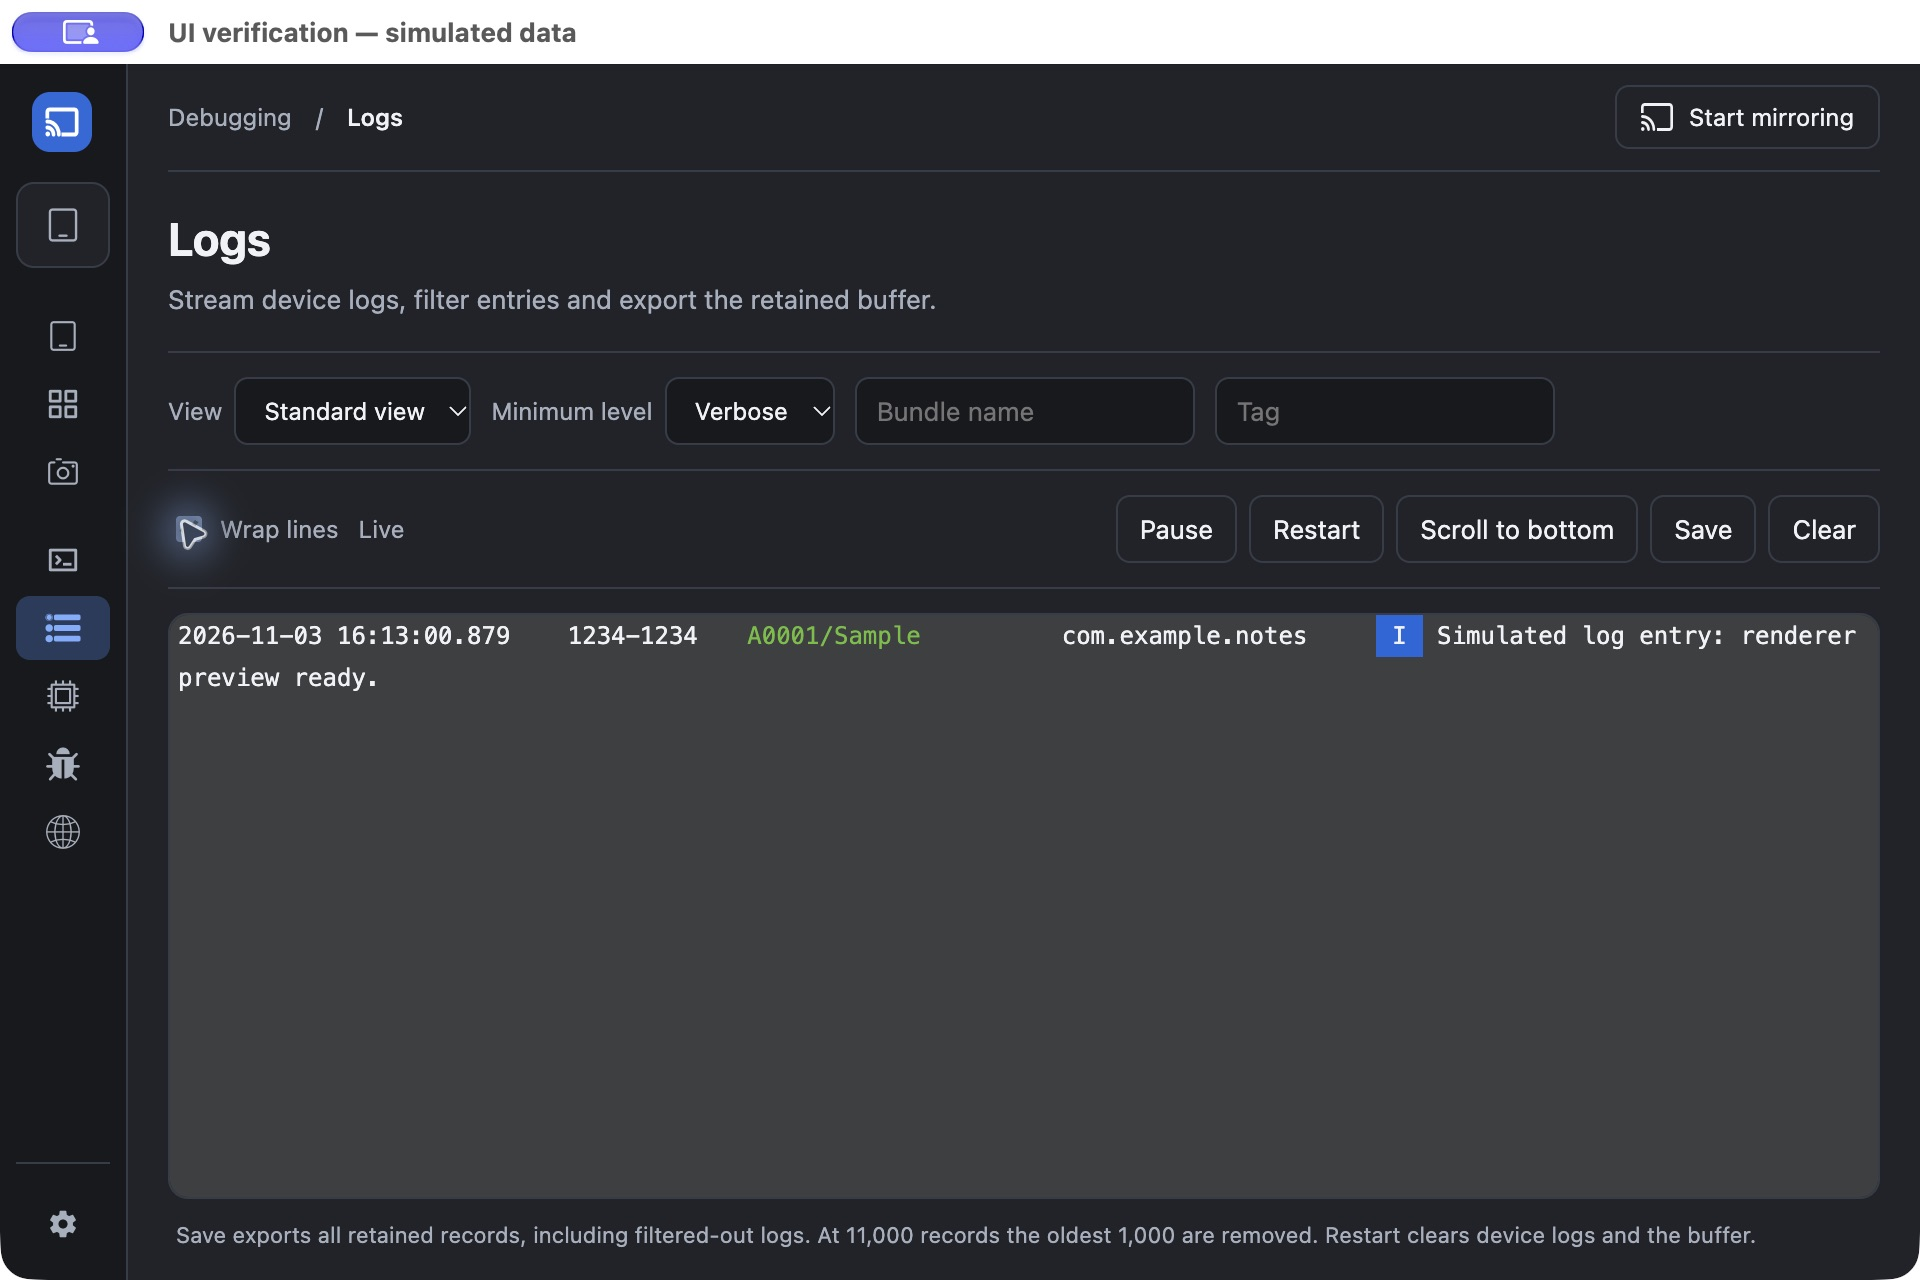
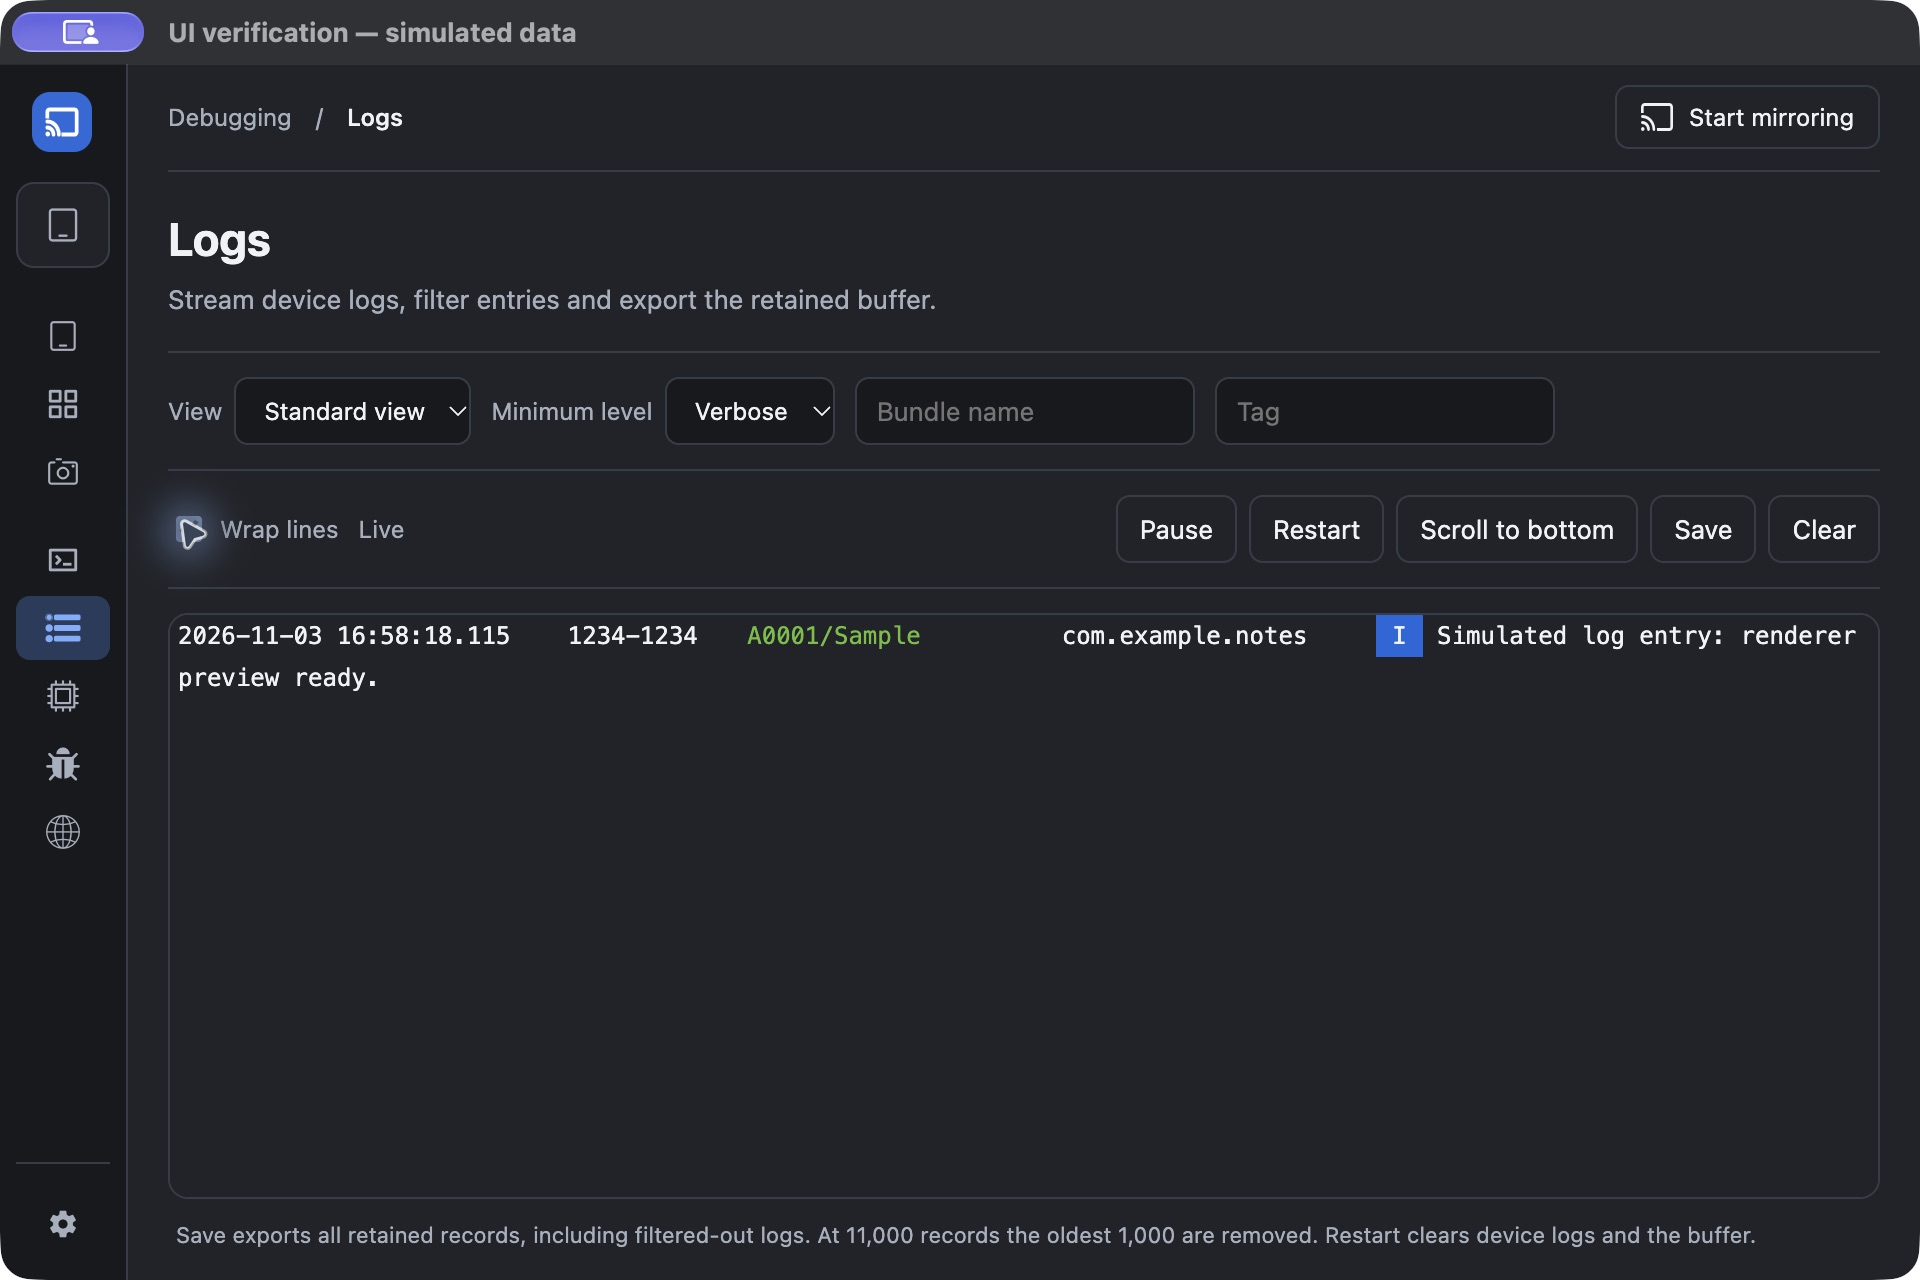
docs(ui): record tool-window and final dark-theme verification

diff --git a/.agents/skills/scrcpy-harmony-project/references/architecture.md b/.agents/skills/scrcpy-harmony-project/references/architecture.md
@@ -194,7 +194,9 @@ Canvas pointer 事件
 - 使用 React 函数组件、`mobx-react-lite` 的 `observer`、Luna React 封装和局部 `.module.scss`；CSS Modules 配置为 `camelCaseOnly`。
 - `src/common/util.ts` 注册独立 `en-US` / `zh-CN` 业务词典，与 `src/share/common/langs` 合并；`t()` 在缺词时兜底英文，未知 key 原样显示。主进程启动解析已保存/系统语言；renderer 在页面懒加载前同步 i18n、HTML lang 和 LunaModal。设置页语言保存后由用户重启生效，包含菜单和各窗口。开发步骤与检查器边界见[国际化开发流程](internationalization.md)。
 - `src/main/lib/SettingsStore.ts` 为低频 settings.json 保留 Store 的 get/set/change 接口，使用同步临时文件替换，在设置 IPC 返回前完成落盘，保证立即重启可读取。主窗口/投屏状态仍用 FileStore 防抖写盘。持久化回归在 `test/settings-persistence.test.cjs`。
-- 1.0.5 主窗口新语义 token 暂集中在 `workspace/Workspace.module.scss`，由 workspace 根的 data-theme 选择；不向独立投屏/升级窗口或全局 Luna 选择器扩散。旧页逐阶段接入，旧 toolbar 文件尚保留。
+- 1.0.5 主窗口语义 token 集中在 `workspace/Workspace.module.scss`，由 workspace 根的 data-theme 选择；主窗口拥有的反馈由 `useMainFeedback` 加显式作用域。关于、应用日志和 Electron 进程管理器使用 `share/renderer/tool-window/` 局部 token；不向独立投屏/升级窗口或共享全局主题扩散。旧主 Toolbar/Tabs/Target/SettingsModal 已由工作台、DeviceSwitcher 与独立设置页替代。
+- 本地 Luna DataGrid 的可选 `rowHeight` 同步 CSS 与虚拟滚动位置；默认 20px 保持兼容，应用列表显式用 32px，调试列表和独立进程工具用 28px。不能只改行 CSS 高度。
+- 独立进程工具的 store 由窗口组件显式启动/停止轮询，图表忽略卸载后的采样；应用日志卸载时取消 addLog 订阅和 resize 监听，忽略迟到的初始日志。
 - 共享主题源是 `src/common/theme.json`，`npm run gen:theme` 生成 `src/renderer/theme.scss` 与 `src/common/theme.ts`。
 - 图标配置是 `src/renderer/icon.json`，图标源在本仓 `src/renderer/icon`，`npm run gen:icon` 生成 `src/renderer/icon.css`。
 - Prettier 配置为无分号、单引号、80 列；避免为局部任务运行全仓库重写格式。

diff --git a/docs/maintenance/v1.0.5-ui-completion.md b/docs/maintenance/v1.0.5-ui-completion.md
@@ -16,6 +16,8 @@ UI-4 实现 `9279c61` 已通过88项定向测试、lint/i18n与renderer构建，
 
 UI-5 实现 `a5e6cc9` 已通过50项定向及完整应用868/868，Licia两模式各606 passing/4既有pending；lint/i18n、renderer构建通过，独立审查规格与质量均PASS。原生验收发现并修复两个集成错误：Luna分栏的空子节点崩溃、严格模式对xmldom只读children赋值报错；均补真实边界回归。修复后中文浅色1440×800三栏联动、英文深色960×640属性抽屉/Escape焦点及最终解码画布尺寸通过。WebView键盘选择、动作启用、无匹配/清空搜索通过。均使用模拟设备。
 
+UI-6 已完成实现并进入收尾检查，独立审查尚待进行。新增可选行高保持默认20px，应用列表32px、调试及独立进程列表28px；主窗口反馈与三个独立工具窗口使用局部作用域。已验证英文深色960×640应用表格及键盘详情焦点、中文浅色关于360×240、英文深色进程工具640×480默认取消与Escape回焦点、应用日志英文深色960×640和中文浅色640×480。原生运行发现终端字体变量遗漏造成空白，补生产Term挂载失败回归后修复并重新确认；错误状态和模拟重试亦通过。
+
 ## 证据区分
 
 实际 Electron fixture 加载本次构建的 renderer，原生窗口标题明确标注“simulated data”。它验证布局、键盘和界面状态；设备与持久化边界被替换，不证明真实设备安装、卸载、端口写入、输入或截图捕获成功。模拟截图位于 [design/1.0.5-evidence](../design/1.0.5-evidence/)。

diff --git a/docs/user-guide-1.0.5.md b/docs/user-guide-1.0.5.md
@@ -39,4 +39,10 @@
 
 网页页发现前台应用中已启用调试的 WebView，支持按标题、URL、类型搜索，选中后调试或打开默认浏览器。无调试目标、无搜索匹配和读取失败分开显示；切页停止轮询，返回继续。是否能发现目标仍取决于设备应用是否启用调试。
 
-独立工具说明将在 UI-6 完成后补齐，最终验证状态以实施记录为准。
+## 独立工具窗口
+
+原生菜单中的“关于”显示产品与候选版本；应用日志显示桌面应用自身的运行日志，区别于设备“日志”页。应用日志提供复制、全选、清空，保留右键菜单；复制只读取当前选中文本。
+
+Electron 进程管理器显示桌面应用各进程的 CPU、内存与 PID，支持搜索、键盘选择和停止确认；它区别于主窗口中显示设备进程的“进程”页。图表与列表随窗口挂载启动采集，关闭后停止监听和轮询。
+
+独立工具与主窗口使用一致的深浅色层次。投屏和升级窗口沿用既有设计。最终验证范围与未完成的发行验收项以[实施记录](maintenance/v1.0.5-ui-completion.md)为准。

diff --git a/CHANGELOG.md b/CHANGELOG.md
@@ -5,6 +5,7 @@
 * 主窗口采用轻量桌面工作台：分组导航、设备概览、应用详情抽屉和独立设置页。
 * 统一截图、端口、遥控、进程、终端、日志、布局检查与网页调试的操作和状态反馈；改进键盘访问及异步会话清理。
 * 布局检查支持紧凑属性抽屉；设置与 Beta 原生菜单双向同步。
+* 关于、应用日志和 Electron 进程管理器统一局部视觉；应用/调试表格采用适配虚拟滚动的32/28px行高。
 * 投屏与升级窗口保留现有设计。候选进度、完整验证和剩余人工矩阵见[实施记录](docs/maintenance/v1.0.5-ui-completion.md)，不代表公开发行。
 
 ## 1.0.4（正式版）
